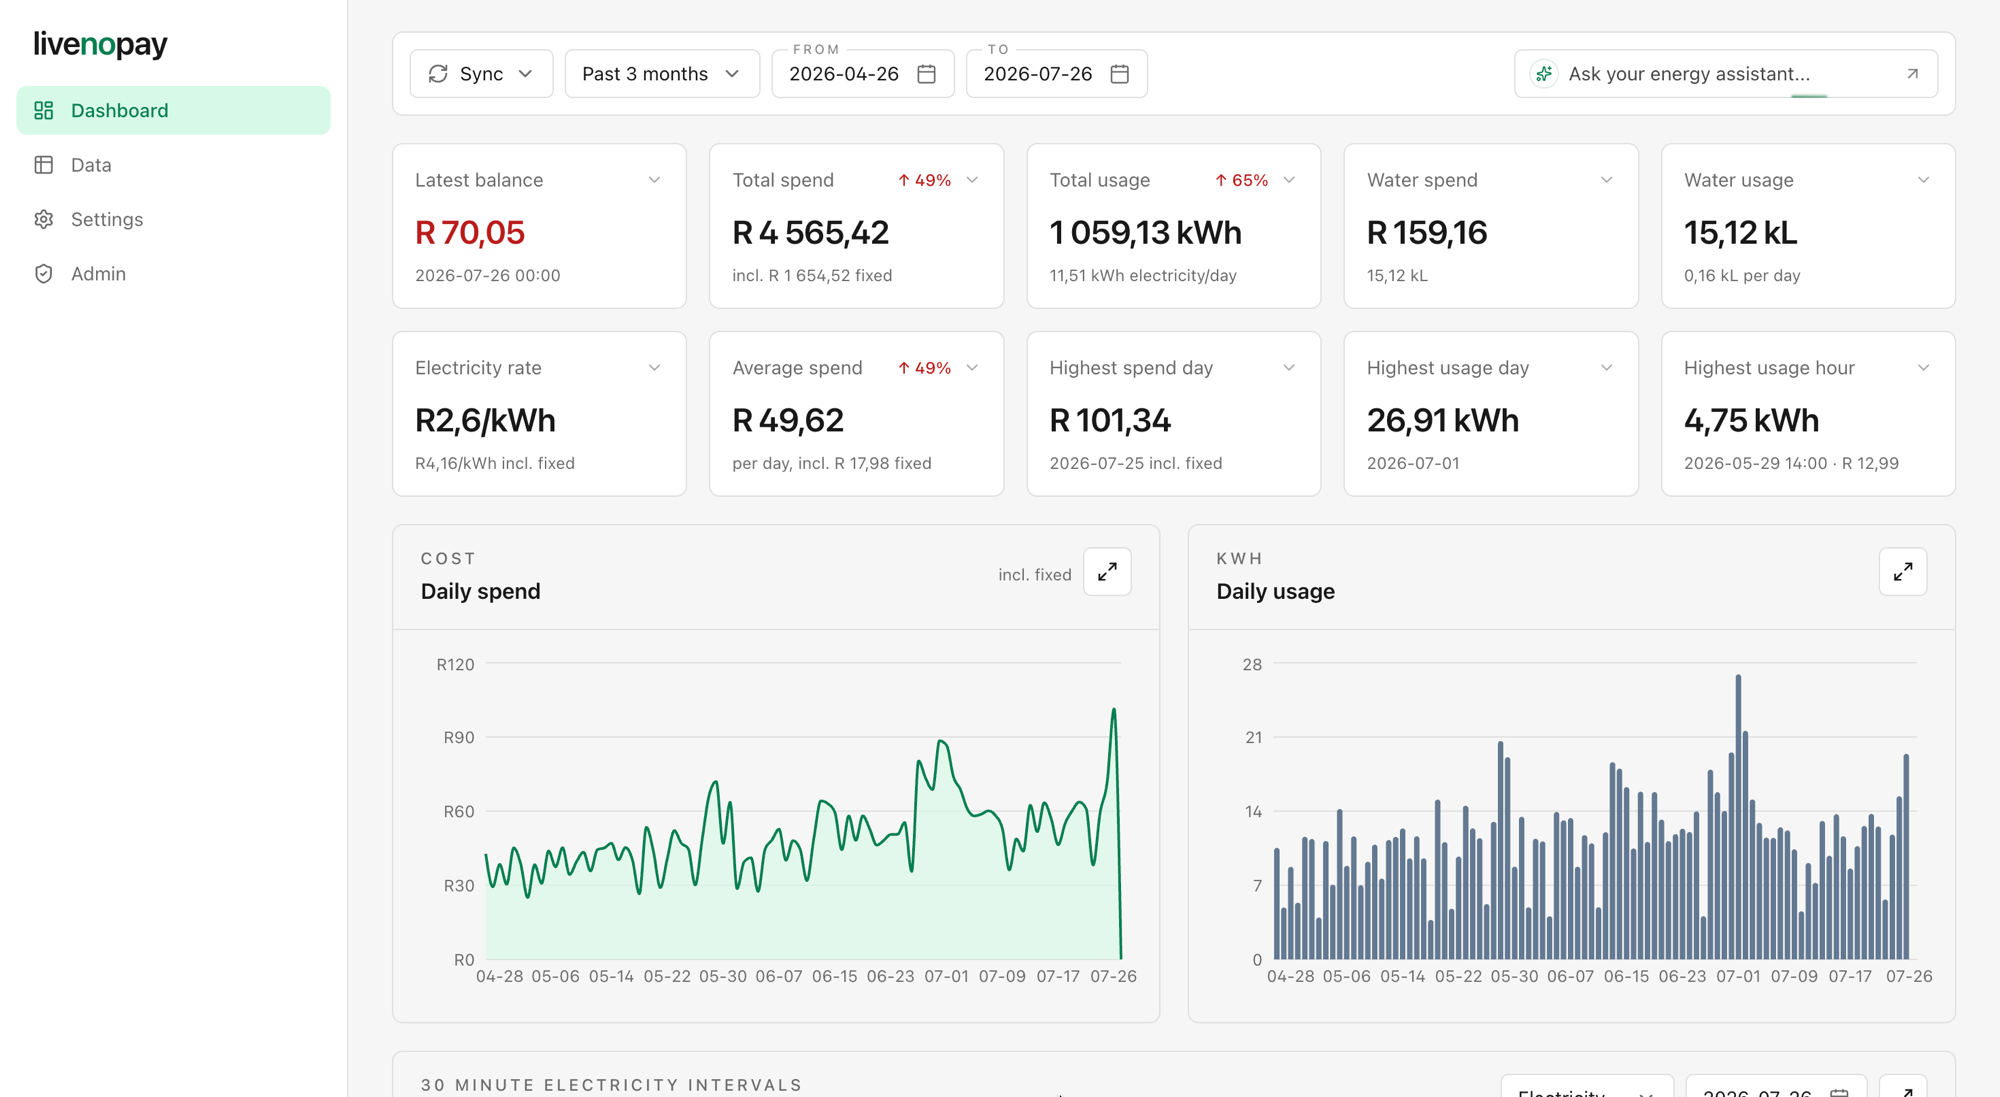
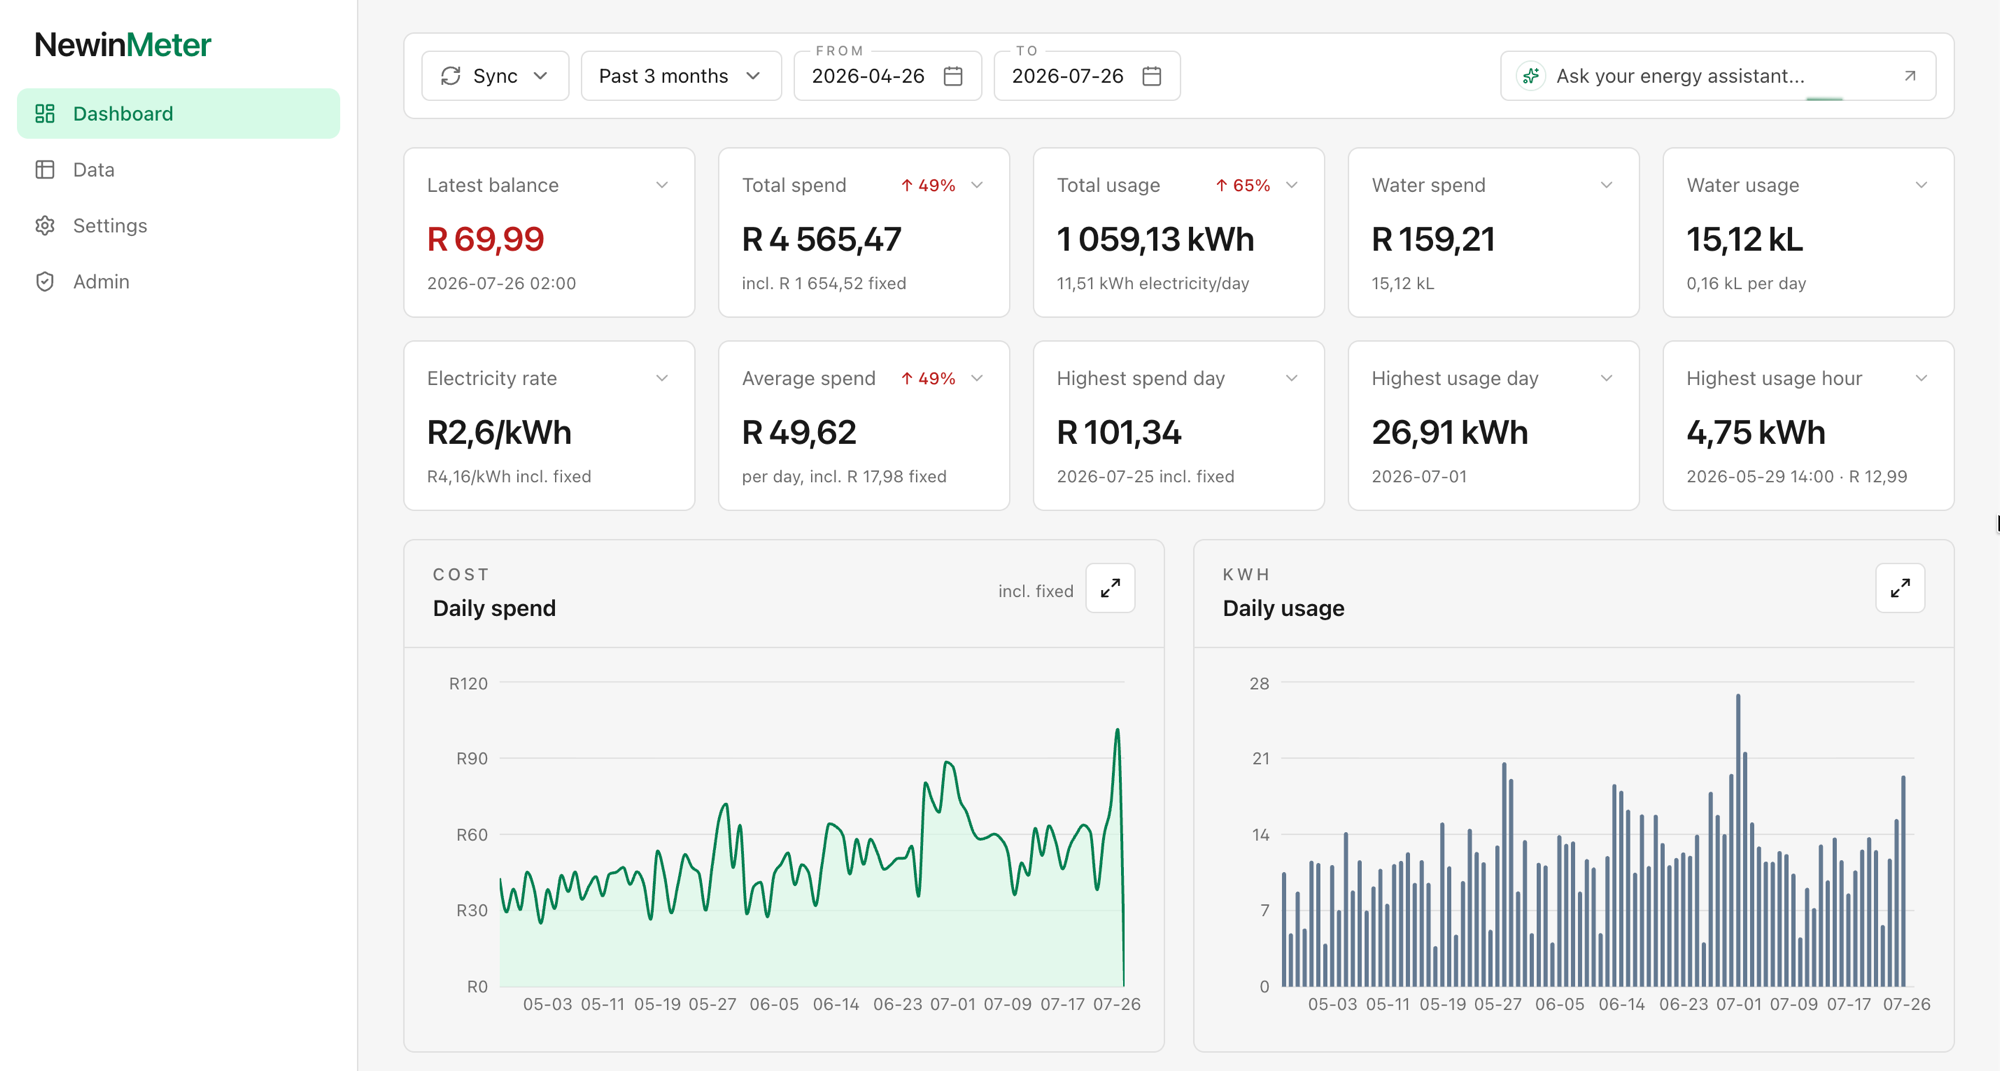
Update dashboard preview screenshot to NewinMeter branding
Previous screenshot predated the rename and still showed the old
LiveNoPay sidebar.

diff --git a/src/components/auth/auth-shell.tsx b/src/components/auth/auth-shell.tsx
@@ -60,7 +60,7 @@ export function AuthShell({ badge, title, description, children }: AuthShellProp
             src="/dashboard-preview.png"
             alt="A NewinMeter dashboard showing electricity and water spend, usage, and daily cost charts"
             width={2000}
-            height={1097}
+            height={1071}
             unoptimized
             className="block w-full"
           />
